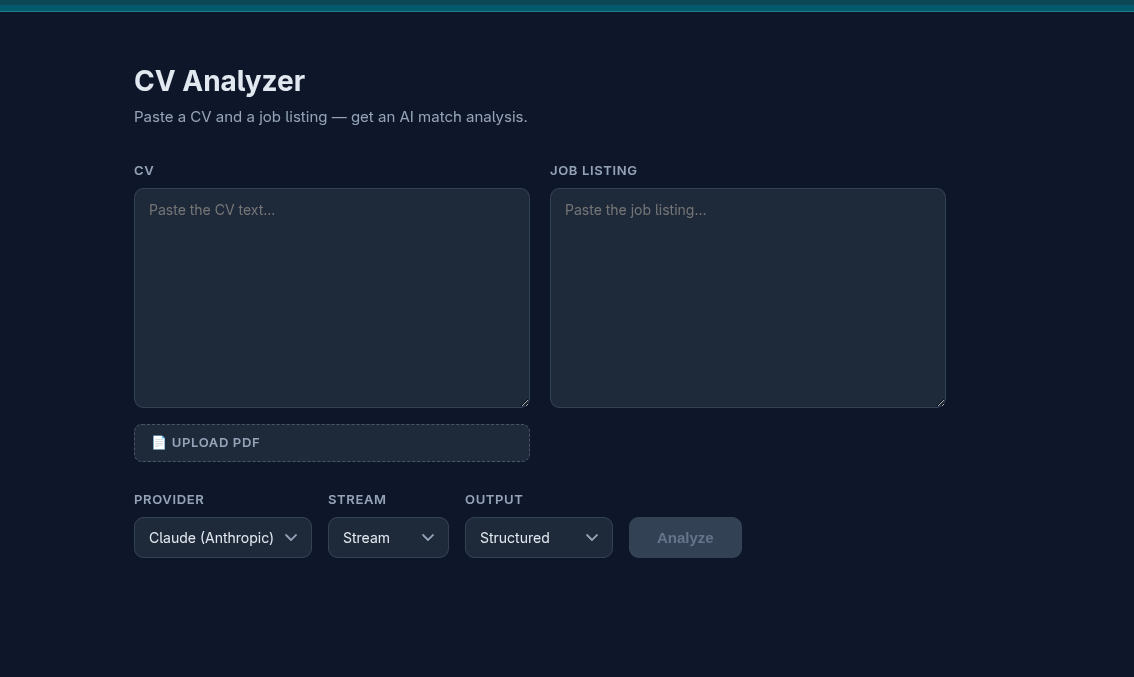
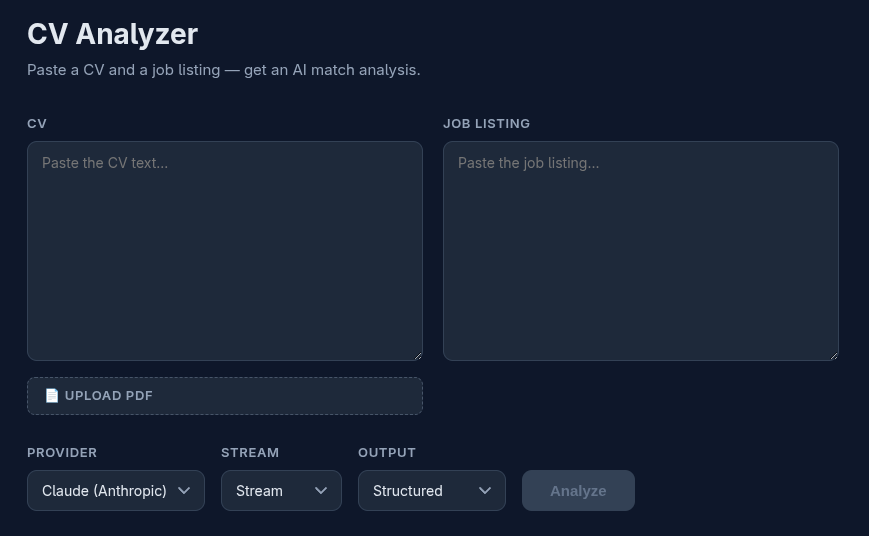
README fix

diff --git a/README.md b/README.md
@@ -1,14 +1,14 @@
 # CV Analyzer
  
-An AI service that scores a CV against a job listing and returns a structured match analysis — a score, matched requirements, gaps, and concrete suggestions.
+An AI service that scores a CV against a job listing and returns a structured match analysis - a score, matched requirements, gaps in your CV, and concrete suggestions.
  
-Built to explore the parts of LLM product engineering that are actually hard: routing between providers, getting reliable structured output out of a model, and streaming a partially-formed response to a UI without it flickering or breaking.
+Built to explore the parts of LLM product engineering that are actually difficult to structure and execute: routing between providers, getting reliable structured output out of a model, and streaming a partially-formed response to a UI without it exposing the UI to unwanted visual artifacts.
  
 ![Demo](docs/CV-analyzer.png)
  
 ## What it does
  
-Paste a CV and a job listing (or upload the CV as a PDF), pick a provider and output mode, and get back an analysis. The interesting part is *how* the analysis is produced — the app supports four combinations across two providers, and each combination exercises a different technical path.
+Paste a CV and a job listing (or upload the CV as a PDF), pick a provider and output mode, and receive your analysis. The interesting part is *how* the analysis is produced - the app supports four combinations across two providers, and each combination exercises a different technical path.
  
 | | Not structured | Structured |
 |---|---|---|
